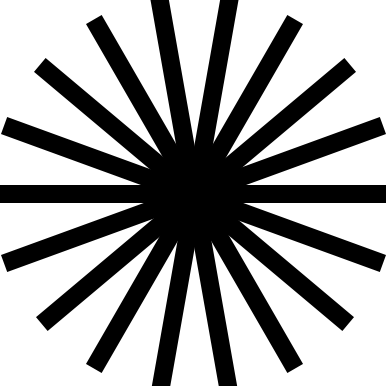
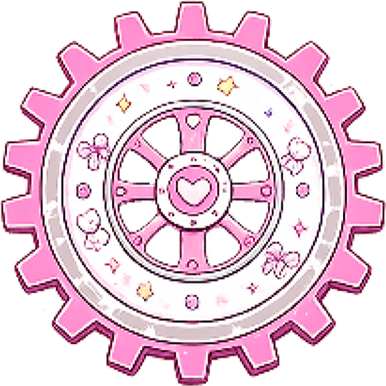
fix overall hint element size and update ui

diff --git a/src/components/reveal/SecretDocument.tsx b/src/components/reveal/SecretDocument.tsx
@@ -1,20 +1,45 @@
 import { motion } from 'framer-motion'
 import type { StudentData } from '@/types'
 import {
-  titleRevealVariants,
   containerRevealVariants,
   listItemVariants,
   backgroundZoomVariants,
 } from '@/animations/revealAnimations'
-import { useBackgroundForScene } from '@/hooks/useResponsiveAsset'
+import { useBackgroundForScene, useDeviceType } from '@/hooks/useResponsiveAsset'
 import HintRow from './HintRow'
+import { SECRET_TEXT } from '@/config/secretDocumentText'
 
 interface SecretDocumentProps {
   studentData: StudentData
 }
 
+// Tune spacing per device to align elements on top of the background image slots
+const LAYOUT_CONFIG = {
+  desktop: {
+    topSpacerHeight: 'h-36 md:h-44',
+    containerWidth: 'max-w-lg md:max-w-xl px-10 pb-14',
+    infoGap: 'gap-2',
+    hintsContainerClass: 'mt-6 flex flex-col gap-3 pb-10',
+  },
+  tablet: {
+    topSpacerHeight: 'h-28',
+    containerWidth: 'max-w-md px-7 pb-10',
+    infoGap: 'gap-2',
+    hintsContainerClass: 'mt-5 flex flex-col gap-2.5 pb-8',
+  },
+  mobile: {
+    topSpacerHeight: 'h-20',
+    containerWidth: 'max-w-sm px-4 pb-8',
+    infoGap: 'gap-1.5',
+    hintsContainerClass: 'mt-4 flex flex-col gap-2 pb-6',
+  },
+}
+
 export default function SecretDocument({ studentData }: SecretDocumentProps) {
   const bgSrc = useBackgroundForScene('reveal')
+  const deviceType = useDeviceType()
+  const config = LAYOUT_CONFIG[deviceType]
+  const textConfig = SECRET_TEXT[deviceType]
 
   return (
     <div className="fixed inset-0 z-30 overflow-hidden">
@@ -40,96 +65,77 @@ export default function SecretDocument({ studentData }: SecretDocumentProps) {
       {/* Scrollable content layer */}
       <div className="absolute inset-0 overflow-y-auto flex items-start justify-center px-4 py-6 md:py-10">
         <motion.div
-          className="relative w-full max-w-sm md:max-w-md"
+          className={`relative w-full ${config.containerWidth}`}
           variants={containerRevealVariants}
           initial="hidden"
           animate="visible"
         >
-          {/* ── Document card ─────────────────────────────── */}
-          <div
-            className="
-              w-full rounded-2xl overflow-hidden
-              shadow-[0_20px_60px_rgba(0,0,0,0.25)]
-            "
-            style={{ backgroundColor: '#E8E3D8' }}
+          {/* Spacer — keeps the background's built-in top text visible */}
+          <div className={config.topSpacerHeight} />
+
+          {/* ── Info header ──────────────────────────────── */}
+          <motion.div
+            className={`flex flex-col ${config.infoGap} mb-5`}
+            initial={{ opacity: 0, y: 16 }}
+            animate={{ opacity: 1, y: 0 }}
+            transition={{ delay: 0.8, duration: 0.6, ease: 'easeOut' }}
           >
-            {/* Title bar */}
-            <motion.div
-              className="px-5 pt-6 pb-4"
-              variants={titleRevealVariants}
-              initial="hidden"
-              animate="visible"
+            {/* Main message */}
+            <p
+              className="font-pixel text-inkBlack/80 leading-loose"
+              style={{ fontSize: textConfig.mainFont }}
             >
-              <h1
-                className="font-pixel text-inkBlack text-center text-xs md:text-sm tracking-wider"
-                style={{ fontSize: 'clamp(9px, 2.5vw, 13px)' }}
-              >
-                SECRET DOCUMENT
-              </h1>
-            </motion.div>
+              {textConfig.main}
+            </p>
 
-            {/* Top section: image + info */}
-            <motion.div
-              className="mx-4 mb-4 flex gap-4 items-start"
-              initial={{ opacity: 0, y: 20 }}
-              animate={{ opacity: 1, y: 0 }}
-              transition={{ delay: 0.9, duration: 0.7 }}
-            >
-              {/* Image placeholder */}
-              <div
-                className="shrink-0 w-28 h-28 md:w-36 md:h-36 rounded-xl overflow-hidden flex items-center justify-center"
-                style={{ backgroundColor: '#D0CAB8' }}
-              >
-                {studentData.imageUrl ? (
-                  <img
-                    src={studentData.imageUrl}
-                    alt="Student"
-                    className="w-full h-full object-cover"
-                  />
-                ) : (
-                  <span className="font-pixel text-inkBlack/40 text-xs">IMAGE</span>
-                )}
-              </div>
-
-              {/* Info */}
-              <div className="flex-1 pt-1 flex flex-col gap-2">
+            {/* Contact chip */}
+            {studentData.contactInfo && (
+              <div className="flex items-center gap-2 self-start">
+                {/* IG icon dot */}
+                <div
+                  className="w-1.5 h-1.5 rounded-full"
+                  style={{ backgroundColor: 'rgba(26,20,16,0.40)' }}
+                />
                 <p
-                  className="font-pixel text-inkBlack/70 leading-relaxed"
-                  style={{ fontSize: 'clamp(7px, 2vw, 10px)' }}
+                  className="font-pixel text-inkBlack/55"
+                  style={{ fontSize: textConfig.contactFont }}
                 >
-                  คำใหม่จะมาในทุกๆ สัปดาห์
+                  IG : {studentData.contactInfo}
                 </p>
-                {studentData.contactInfo && (
-                  <p
-                    className="font-pixel text-inkBlack/50"
-                    style={{ fontSize: 'clamp(6px, 1.8vw, 9px)' }}
-                  >
-                    มีปัญหาติดต่อ IG : {studentData.contactInfo}
-                  </p>
-                )}
               </div>
-            </motion.div>
+            )}
+          </motion.div>
 
-            {/* Divider */}
-            <div className="mx-4 h-px bg-inkBlack/10 mb-1" />
+          {/* Thin separator line */}
+          <motion.div
+            className="w-full mb-5"
+            initial={{ scaleX: 0, opacity: 0 }}
+            animate={{ scaleX: 1, opacity: 1 }}
+            transition={{ delay: 1.1, duration: 0.5, ease: 'easeOut' }}
+            style={{
+              height: '1px',
+              transformOrigin: 'left',
+              background: 'linear-gradient(90deg, rgba(26,20,16,0.25) 0%, rgba(26,20,16,0.05) 100%)',
+            }}
+          />
 
-            {/* Hint rows */}
-            <div className="px-4 pb-6 flex flex-col gap-1.5 mt-3">
-              {studentData.hints.map((hint, i) => (
-                <motion.div
-                  key={hint.id}
-                  variants={listItemVariants}
-                  custom={i}
-                  initial="hidden"
-                  animate="visible"
-                >
-                  <HintRow hint={hint} index={i} />
-                </motion.div>
-              ))}
-            </div>
+          {/* ── Hint list ────────────────────────────────── */}
+          <div className={config.hintsContainerClass}>
+            {studentData.hints.map((hint, i) => (
+              <motion.div
+                key={hint.id}
+                variants={listItemVariants}
+                custom={i}
+                initial="hidden"
+                animate="visible"
+              >
+                <HintRow hint={hint} index={i} />
+              </motion.div>
+            ))}
           </div>
         </motion.div>
       </div>
     </div>
   )
 }
+

diff --git a/src/components/reveal/HintRow.tsx b/src/components/reveal/HintRow.tsx
@@ -1,40 +1,93 @@
 import type { HintItem } from '@/types'
+import { useDeviceType } from '@/hooks/useResponsiveAsset'
+import { SECRET_TEXT } from '@/config/secretDocumentText'
 
 interface HintRowProps {
   hint: HintItem
   index: number
 }
 
-export default function HintRow({ hint }: HintRowProps) {
+export default function HintRow({ hint, index }: HintRowProps) {
+  const device = useDeviceType()
+  const hintFont = SECRET_TEXT[device].hintFont
+  const daysFont = SECRET_TEXT[device].contactFont
+
   return (
     <div
-      className="
-        flex items-center justify-between
-        px-4 py-3
-        rounded-lg
-      "
-      style={{ backgroundColor: hint.isUnlocked ? '#D4CABC' : '#CBC1B3' }}
+      className="group relative flex items-center gap-3 px-4 py-3 rounded-xl transition-all duration-300 hover:scale-[1.01]"
+      style={{
+        background: hint.isUnlocked
+          ? 'linear-gradient(135deg, rgba(200,185,160,0.35) 0%, rgba(220,205,180,0.20) 100%)'
+          : 'linear-gradient(135deg, rgba(26,20,16,0.10) 0%, rgba(26,20,16,0.05) 100%)',
+        border: hint.isUnlocked
+          ? '1px solid rgba(180,155,110,0.45)'
+          : '1px solid rgba(26,20,16,0.12)',
+        backdropFilter: 'blur(8px)',
+        boxShadow: hint.isUnlocked
+          ? '0 2px 16px rgba(180,155,110,0.12)'
+          : 'none',
+      }}
     >
+      {/* Index number badge */}
+      <div
+        className="shrink-0 flex items-center justify-center rounded-lg font-pixel"
+        style={{
+          width: '28px',
+          height: '28px',
+          fontSize: '9px',
+          backgroundColor: hint.isUnlocked
+            ? 'rgba(180,155,110,0.30)'
+            : 'rgba(26,20,16,0.08)',
+          color: hint.isUnlocked ? 'rgba(26,20,16,0.70)' : 'rgba(26,20,16,0.25)',
+          border: hint.isUnlocked
+            ? '1px solid rgba(180,155,110,0.40)'
+            : '1px solid rgba(26,20,16,0.10)',
+        }}
+      >
+        {String(index + 1).padStart(2, '0')}
+      </div>
+
+      {/* Hint label */}
       <span
-        className="font-pixel text-inkBlack/80"
-        style={{ fontSize: 'clamp(7px, 2vw, 10px)' }}
+        className="flex-1 font-pixel leading-relaxed"
+        style={{
+          fontSize: hintFont,
+          color: hint.isUnlocked ? 'rgba(26,20,16,0.85)' : 'rgba(26,20,16,0.30)',
+        }}
       >
         {hint.label}
       </span>
 
-      <div className="flex items-center gap-2">
-        {/* Lock icon if locked */}
-        {!hint.isUnlocked && (
-          <svg width="10" height="12" viewBox="0 0 10 12" fill="none" className="opacity-40">
-            <rect x="1" y="5" width="8" height="7" rx="1" stroke="#1A1410" strokeWidth="1" />
-            <path d="M3 5V3.5a2 2 0 0 1 4 0V5" stroke="#1A1410" strokeWidth="1" />
+      {/* Status pill */}
+      <div
+        className="shrink-0 flex items-center gap-1.5 px-2.5 py-1 rounded-full"
+        style={{
+          backgroundColor: hint.isUnlocked
+            ? 'rgba(180,155,110,0.25)'
+            : 'rgba(26,20,16,0.06)',
+          border: hint.isUnlocked
+            ? '1px solid rgba(180,155,110,0.35)'
+            : '1px solid rgba(26,20,16,0.10)',
+        }}
+      >
+        {hint.isUnlocked ? (
+          <svg width="8" height="8" viewBox="0 0 8 8" fill="none">
+            <path d="M1 4L3 6L7 2" stroke="rgba(26,20,16,0.65)" strokeWidth="1.5" strokeLinecap="round" strokeLinejoin="round" />
+          </svg>
+        ) : (
+          <svg width="7" height="9" viewBox="0 0 7 9" fill="none">
+            <rect x="0.5" y="3.5" width="6" height="5" rx="1" stroke="rgba(26,20,16,0.30)" strokeWidth="1" />
+            <path d="M2 3.5V2.5a1.5 1.5 0 0 1 3 0V3.5" stroke="rgba(26,20,16,0.30)" strokeWidth="1" />
           </svg>
         )}
         <span
-          className="font-pixel text-inkBlack/50 text-right"
-          style={{ fontSize: 'clamp(6px, 1.8vw, 9px)' }}
+          className="font-pixel"
+          style={{
+            fontSize: daysFont,
+            color: hint.isUnlocked ? 'rgba(26,20,16,0.60)' : 'rgba(26,20,16,0.25)',
+          }}
         >
-          {hint.daysLeft} DAYS LEFT
+          {hint.isUnlocked ? 'OPEN' : `${hint.daysLeft}D`}
         </span>
       </div>
     </div>

diff --git a/src/config/secretDocumentText.ts b/src/config/secretDocumentText.ts
@@ -1,0 +1,20 @@
+export const SECRET_TEXT = {
+  desktop: {
+    main: 'คำใหม่จะมาในทุกๆ สัปดาห์',
+    mainFont: 'clamp(10px, 3vw, 16px)',
+    contactFont: 'clamp(9px, 2.5vw, 13px)',
+    hintFont: 'clamp(12px, 2.5vw, 13px)',
+  },
+  tablet: {
+    main: 'คำใหม่จะมาในทุกๆ สัปดาห์',
+    mainFont: 'clamp(9px, 2.5vw, 14px)',
+    contactFont: 'clamp(8px, 2vw, 12px)',
+    hintFont: 'clamp(11px, 2vw, 14px)',
+  },
+  mobile: {
+    main: 'คำใหม่จะมาในทุกๆ สัปดาห์',
+    mainFont: 'clamp(8px, 2vw, 13px)',
+    contactFont: 'clamp(7px, 1.8vw, 11px)',
+    hintFont: 'clamp(10px, 1.8vw, 12px)',
+  },
+} as const;